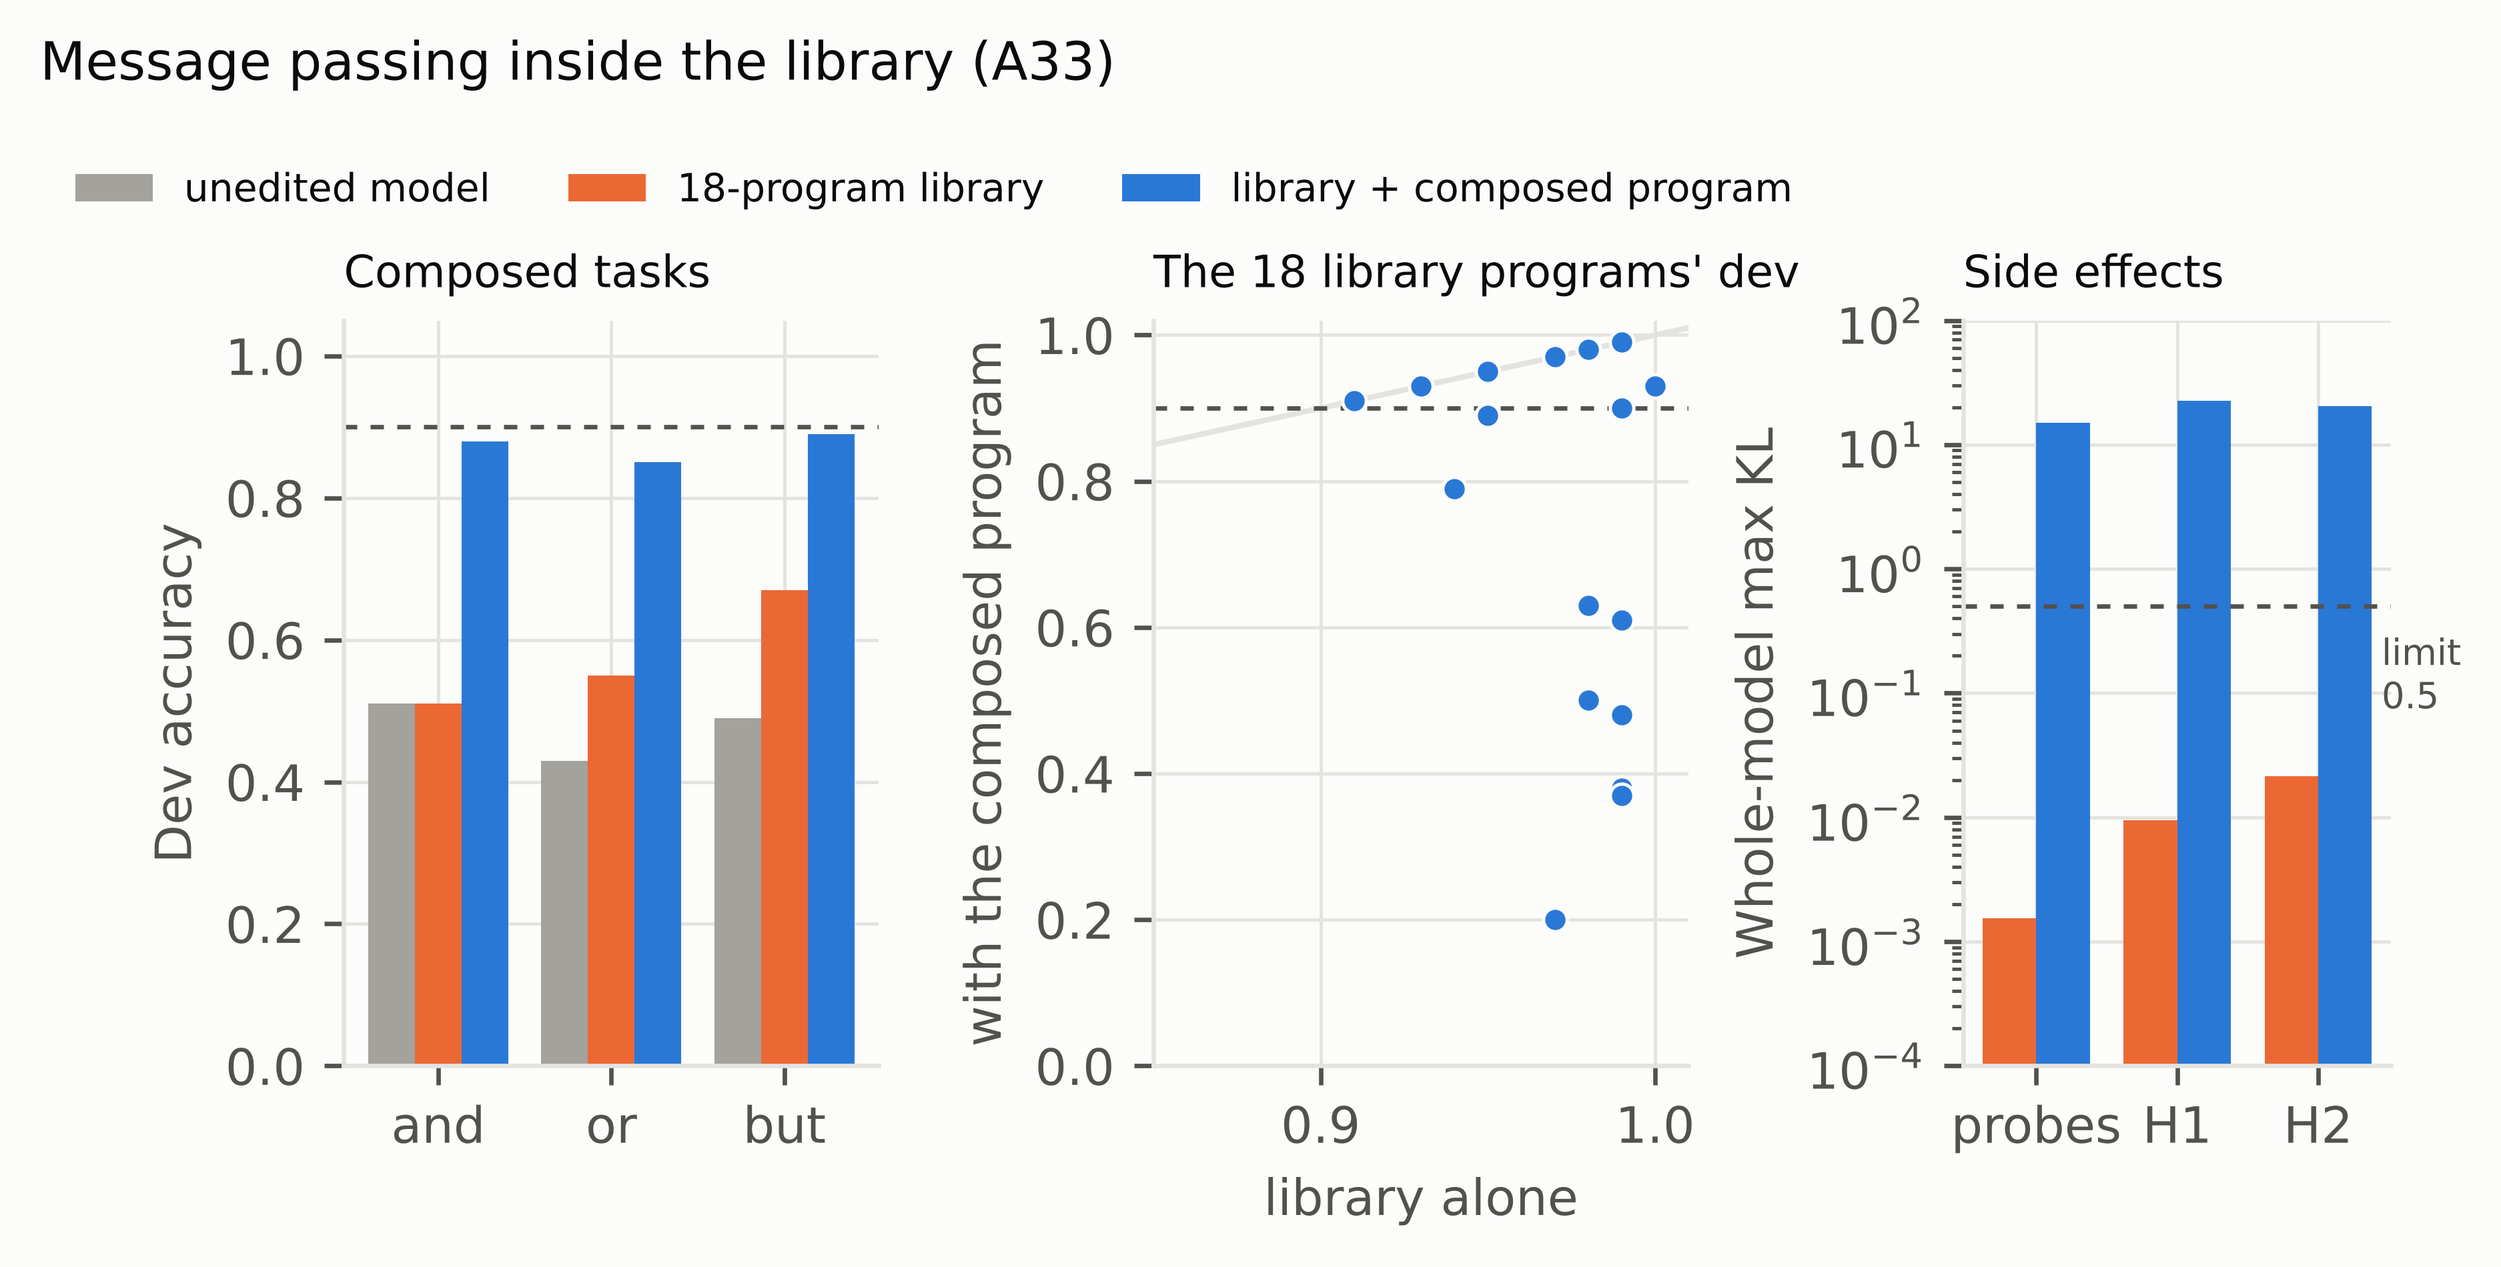
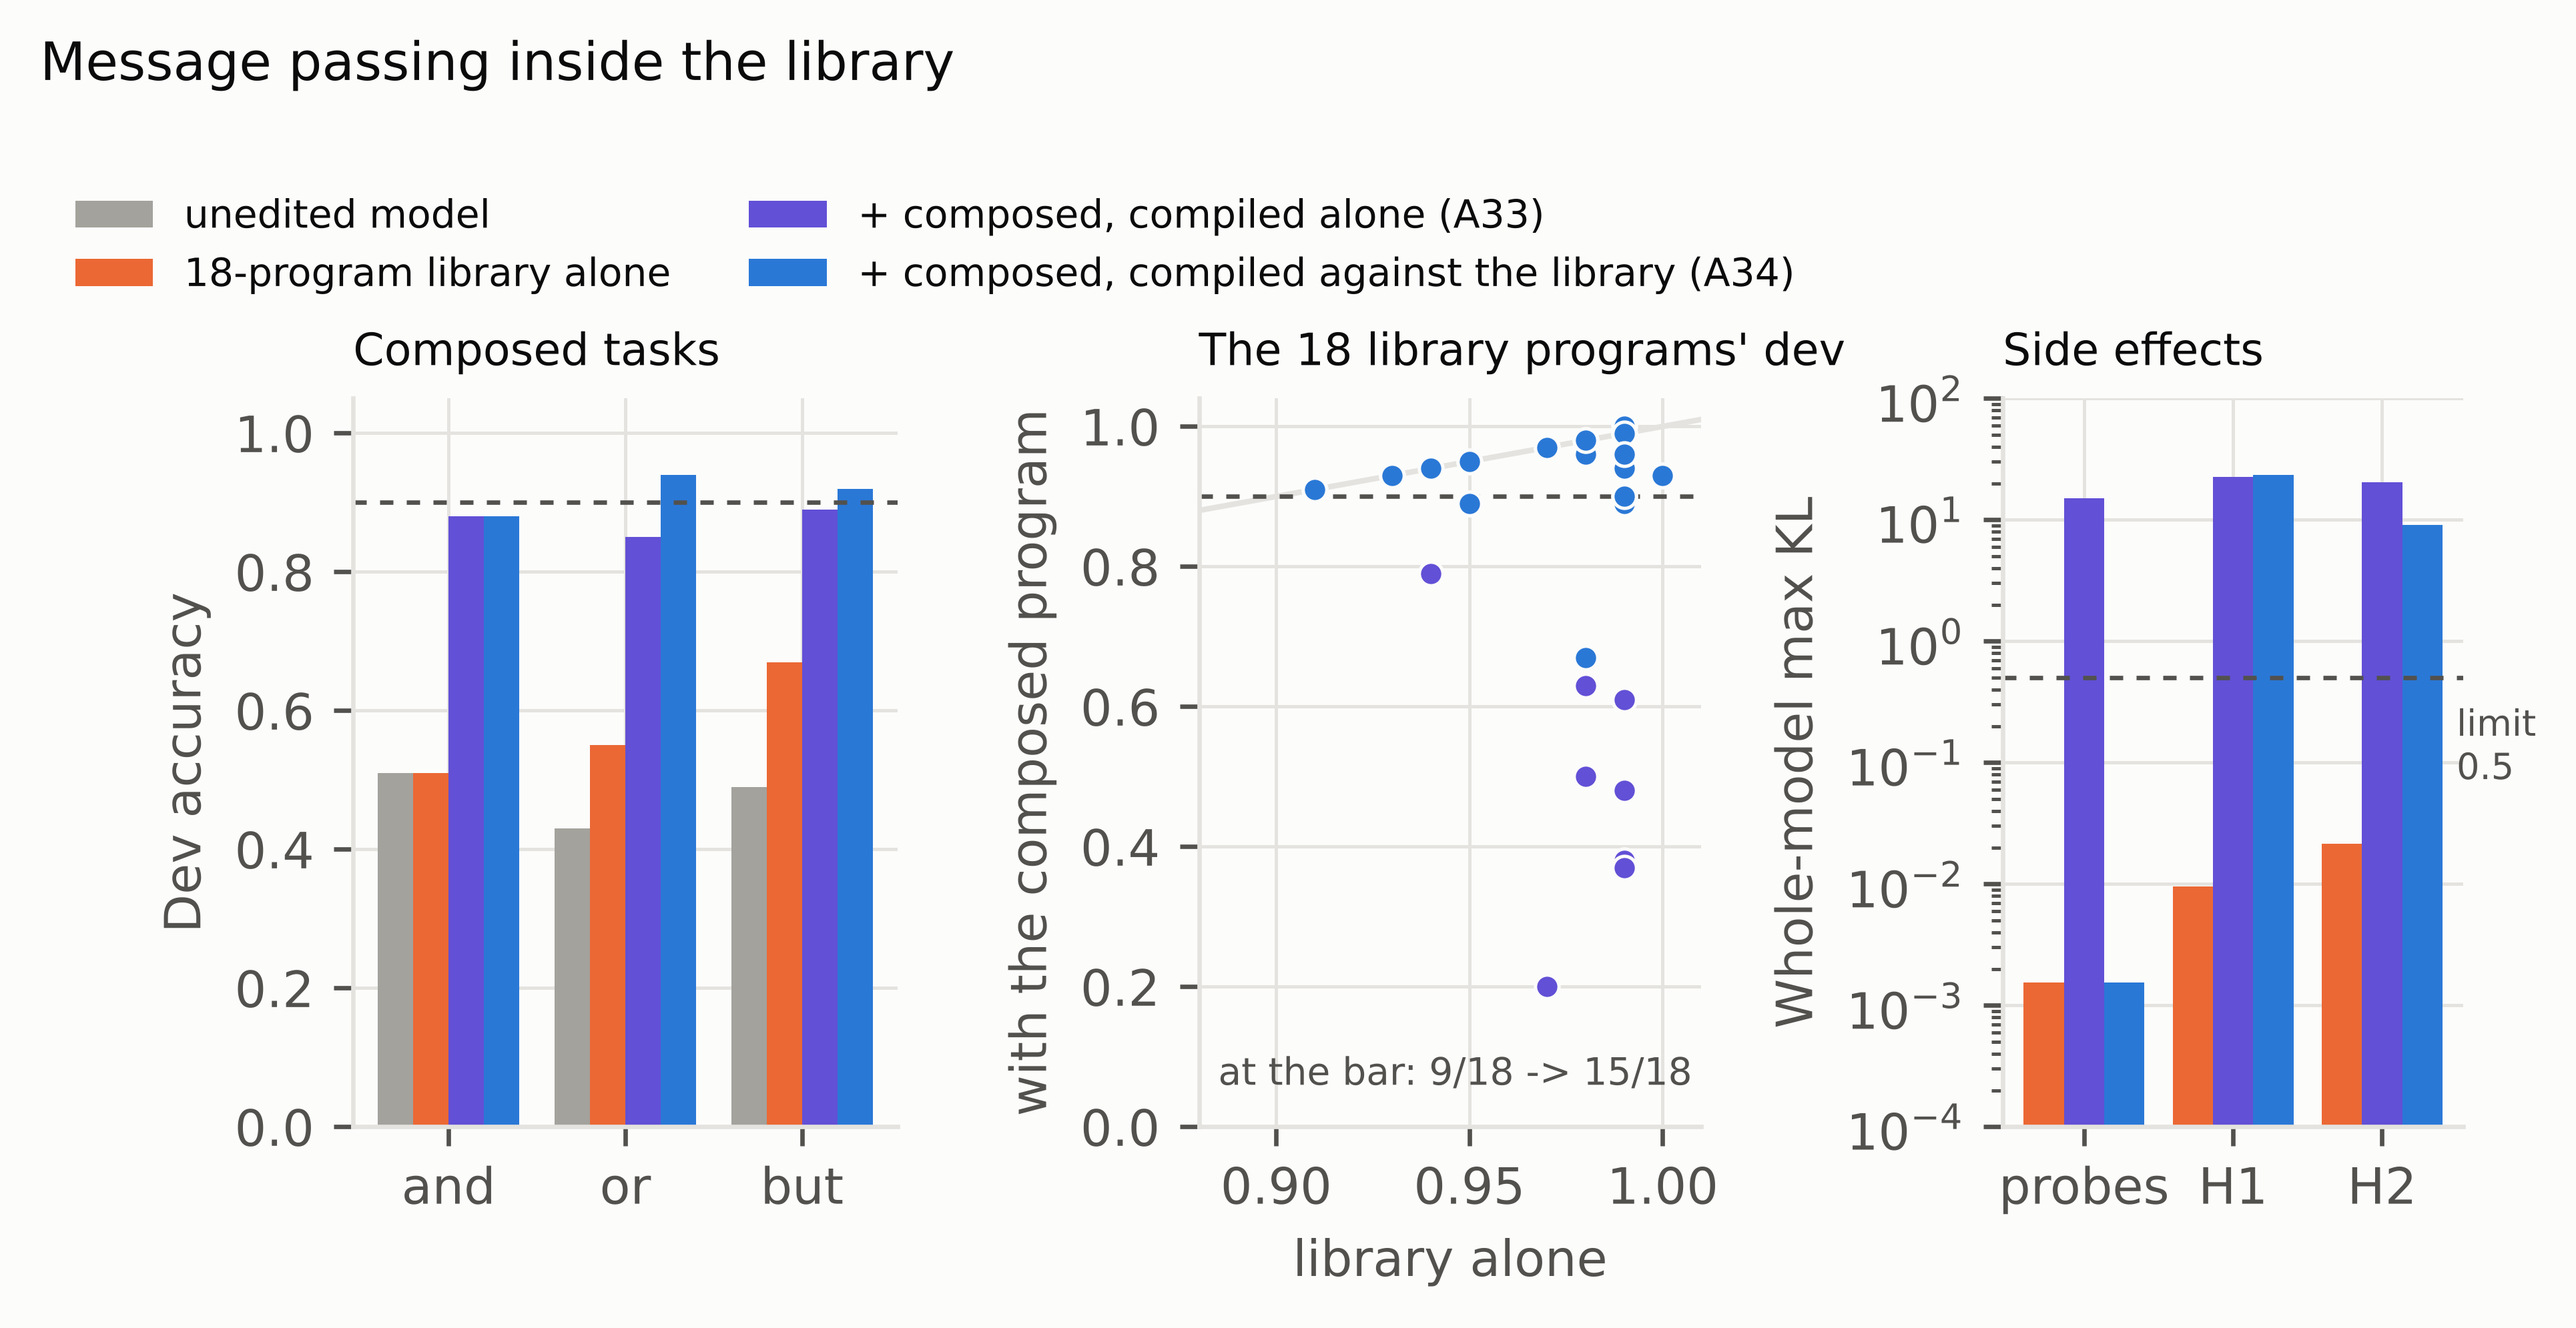
GRAFT-5: updated version with the composed program recompiled against the library; new Figure F11
Claude-Session: https://claude.ai/code/session_0189EHowxSYNumpzbTHLKZ9i

diff --git a/src/content/blog/graft-5-library-of-compiled-programs.md b/src/content/blog/graft-5-library-of-compiled-programs.md
@@ -8,7 +8,7 @@ draft: false
 takeaways:
   - "**Eighteen compiled programs now live in one model.** All 18 pass on dev and 17 of 18 on a test split scored once (mean 0.964), and the model's behaviour elsewhere is unchanged under the side-effect rule, with a maximum KL of 0.0015 on the probes. The library stopped at 18 of a planned 32 because programs that work on the same words interfere with each other, not because the model ran out of room."
   - "**Programs can call each other through registers.** A composed program takes one task from 0.49 to 1.00, and a two-level composition reaches 0.91 to 0.97 on three tasks the unedited model gets about half right."
-  - "**Two limits remain.** A composed program does not yet coexist with a full library: nine of the 18 library programs fell below the bar when one was added. And compiled programs are tied to the exact prompt form they were compiled on, with accuracy falling from 0.97 to 0.62 on reworded prompts."
+  - "**Two limits remain.** A composed program compiled against a full library nearly coexists with it: 15 of the 18 library programs hold, but three held-out answers still change with a large shift. And compiled programs are tied to the exact prompt form they were compiled on, with accuracy falling from 0.97 to 0.62 on reworded prompts."
 description: "Eighteen compiled programs installed together in one language model, programs that call each other through registers, and where both break."
 ---
 
@@ -16,7 +16,8 @@ description: "Eighteen compiled programs installed together in one language mode
 model's behaviour elsewhere is unchanged by the side-effect rule. The library stopped at 18 of a planned 32, not for lack of room but
 because new programs interfered with installed ones that work on the same words. Programs can call each other through registers, two
 levels deep in one forward pass, and the composed programs do things the model cannot (0.49 to 1.00 on one task, about 0.5 to 0.91-0.96
-on three others). Composed programs do not yet coexist with a full library, and compiled programs are tied to the exact form of the prompt
+on three others). A composed program compiled against a full library nearly coexists with it (15 of 18 library programs held) but still
+changes three held-out answers, and compiled programs are tied to the exact form of the prompt
 they were compiled on. Every one of these results, good and bad, is measured below.
 
 ## 1. The question
@@ -64,7 +65,7 @@ _Figure F2. The capacity curve, position by position, coloured by what happened 
 ![Figure F3](/figures/g5_F3_growth.webp)
 _Figure F3. The lowest dev score among installed programs, and the whole model's side effects, after every install._
 
-The curve tells a two-part story. The first 16 positions all ended up installed: 14 by the curve itself (two of them, both compare programs, on a
+The first 16 positions all ended up installed: 14 by the curve itself (two of them, both compare programs, on a
 second attempt), and the two remaining “at least N” programs after a fix to a failure we found along the way, where a new program's answer flag fired again right after another program's
 first answer token and appended a second answer. As the library grew from 1 to 18 programs, the lowest dev score among the installed
 programs never fell below 0.91, and the whole model's max KL never rose above 0.07, a seventh of the limit. Block 3, positions 17 to 32,
@@ -170,8 +171,7 @@ caller. With the layers available, one forward pass holds two levels of calls.
 The first test was a pilot. “Are there more animals than colours in this list?” was built from three separately compiled parts: two count
 programs that write only a count register and never answer, and a compare program that reads only those two registers and writes the
 answer. The unedited model answers this question at 0.49, a coin flip. The composed program scores 1.00 on dev and 1.00 on test, gives
-exactly the same answers as a compare program compiled in one piece, and keeps side effects at max KL 0.0021 with no answer changed. Its
-cost over the monolithic version is four more neuron pairs and one more head. The parts did not just coexist: put together, they produced
+exactly the same answers as a compare program compiled in one piece, and keeps side effects at max KL 0.0021 with no answer changed. The parts did not just coexist: put together, they produced
 an ability none of them has alone and the model did not have.
 
 The second test went two levels deep. Four count programs write count registers; three compare programs read them and write yes / no
@@ -187,28 +187,36 @@ standard library would actually be used. We tested it directly: we installed the
 program on top of it with the allocator keeping every register and unit separate, and measured everything again.
 
 ![Figure F11](/figures/g5_F11_mp_in_library.webp)
-_Figure F11. The composed and / or / but tasks on the unedited model, the library alone and the library with the composed program; the 18 library programs' dev before and after; and the whole model's side effects before and after._
+_Figure F11. The composed and / or / but tasks, the 18 library programs' dev and the whole model's side effects: the library alone, with the composed program compiled on its own, and with the composed program compiled against the library._
 
-The composed program still did its job. On its three tasks it scored 0.88, 0.85 and 0.89, where the unedited model scores 0.51, 0.43 and
-0.49 and the library alone 0.51, 0.55 and 0.67, so the message-passing program added a large new ability even in a crowded model, just
-short of the bar. No unit or register was shared: the allocator found 40 free neuron pairs and four free heads and nothing collided. But the
-library did not survive it. Nine of the 18 programs fell below 0.90, down to 0.20 for one of the “at least two” programs, and the whole
-model failed the side-effect rule badly, with max KL of 15 on the probes and over 20 on both held-out sets. The programs that broke are the
-ones that ask questions that look like the composed program's own (counts and comparisons of animals, colours, fruits and shapes); the ones
-on other word lists, like the fetch and number-word programs, held.
+The first time, the composed program still did its job but the library did not survive it. On its three tasks it scored 0.88, 0.85 and
+0.89, where the unedited model scores 0.51, 0.43 and 0.49 and the library alone 0.51, 0.55 and 0.67. No unit or register was shared: the
+allocator found 40 free neuron pairs and four free heads and nothing collided. Yet nine of the 18 library programs fell below 0.90, down to
+0.20 for one of the “at least two” programs, and the model failed the side-effect rule badly, with max KL of 15 on the probes and over 20
+on both held-out sets. The programs that broke ask questions that look like the composed program's own (counts and comparisons of animals,
+colours, fruits and shapes); the ones on other word lists held.
 
 ![Figure F11b](/figures/g5_F11b_mp_diagnostic.webp)
-_Figure F11b. The library and the probes with one part of the composed program removed at a time._
+_Figure F11b. The library and the probes with one part of the first composed program removed at a time._
 
 We expected the cause to be the composed program's markers, by analogy with section 4, and we were wrong. Removing its markers changed
-nothing; removing its count heads changed nothing. Removing its callers, the compare and logic units and their task flags, brought the
-probes back to exactly the library-alone value, 0.0015, so the side effects come entirely from the callers, as they did in fan-out. The
-damage to the library is spread over more than one part: without the callers 11 of 18 programs hold, and without the count modules' answer
-flags the worst program recovers from 0.18 to 0.62, but no single part restores all of them. The procedural cause is clear in hindsight.
-Every program in the capacity curve was compiled with the installed programs' prompts as negatives, so it learned to stay quiet on them.
-The composed program was compiled with the standard negative banks only, so its flags and callers never saw a library prompt and fire on
-questions that look like their own. Message passing works, and it creates abilities the model does not have, but a composed program has
-to be compiled against the library it joins, exactly like any other program, and we did not do that here.
+nothing, and removing its count heads changed nothing. Removing its callers, the compare and logic units and their task flags, brought the
+probes back to exactly the library-alone value, so the side effects came from the callers, as they did in fan-out; the damage to the
+library came from the callers and the count modules' answer flags together. The procedural cause was clear in hindsight. Every program in
+the capacity curve was compiled with the installed programs' prompts as negatives, so it learned to stay quiet on them. The composed program
+had been compiled with the standard negative banks only, so its flags and callers had never seen a library prompt.
+
+So we compiled it again, this time against the library: the same recipe as the curve, with 20 build prompts from each of the 18 library
+programs added as negatives for every part of the composed program. (A first try with 40 per program ran out of memory on our machine.)
+The difference is large. The composed program now passes two of its three tasks, at 0.88, 0.94 and 0.92. Fifteen of the 18 library programs
+stay at the bar instead of nine, and only one falls far, compare.animals-colors.K1 at 0.67, the program whose questions are closest to the
+composed program's own. The probes are back to exactly the library-alone value, and the number of answers changed on the held-out sets
+falls from 50 to 3. But those three are confident changes, with max KL of 23 and 9 on the two held-out sets, so the model still fails the
+side-effect rule. This is the same gap that stopped the library in section 4: compiling against the library's own prompts and our
+build-side banks removes nearly all of the interference we can see, and what remains shows up only on held-out text. Message passing works,
+it creates abilities the model does not have, and linking a composed program to the library it joins is what makes the difference between
+breaking half the library and nearly coexisting with it; closing the last part of that gap needs negatives that cover what the held-out
+sets cover.
 
 ## 7. Fan-out: where message passing broke
 
@@ -233,7 +241,7 @@ by its large gain, pulled the two count callers down from 0.94 and 0.83 to 0.70 
 
 Two new kinds of component did not pass: “the item after X” and key-to-value lookup. Their copy heads worked, with 0 to 1 errors in 200
 build items, but the markers they needed depend on context in a way the others do not, and they failed the held-out side-effect checks,
-with KL up to 19.4. The unedited model already does key-to-value lookup at 0.99, so there was little to add there in any case.
+with KL up to 19.4.
 
 ## 9. What we took from Weight-Space Micromachines
 
@@ -250,5 +258,4 @@ that is the invariance check in section 5, and it showed that ours mostly do not
 
 Every procedure change in GRAFT-5 was written down as a dated amendment before the result it could affect (33 in all), and every
 diagnostic was pre-registered before it ran. No pass rule was changed, no test split was scored twice, and the held-out sets were never
-opened. Four count programs had no test split; one was generated before any scoring, with every build and dev prompt excluded. Where a
-reading turned out to be wrong it was corrected in the log, not removed.
+opened. Four count programs had no test split; one was generated before any scoring, with every build and dev prompt excluded.
